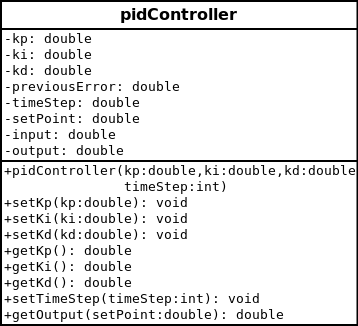
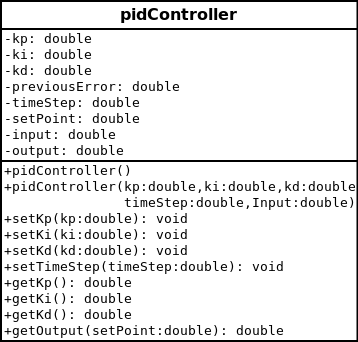
Updated UML, updated tests, updated a few other things.

Changed region(s): [[0.0, 0.0, 1.0, 1.0], [0.7067, 0.7669, 0.7989, 0.7975]]

diff --git a/app/pidController.cpp b/app/pidController.cpp
@@ -7,6 +7,7 @@
  *
  */
 
+#include <cmath>
 #include <pidController.h>
 
 namespace std {
@@ -15,44 +16,35 @@ pidController::pidController() {
   ki = 1;
   kd = 1;
   previousError = 0;
-  timeStep = 1;
-  setPoint = 1;
+  timeStep = 0.1;
+  setPoint = 0;
   input = 0;
   output = 0;
-  running = false;
 }
 
-pidController::pidController(double Kp, double Ki, double Kd, int TimeStep, double SetPoint) {
+pidController::pidController(double Kp, double Ki, double Kd, double TimeStep,
+                             double Input) {
 
   kp = Kp;
   ki = Ki;
   kd = Kd;
   previousError = 0;
   timeStep = TimeStep;
-  setPoint = SetPoint;
-  input = 0;
-  output = -1;
-  running = false;
-}
-
-void pidController::start() {
-
-}
-
-void pidController::stop() {
-
+  setPoint = 0;
+  input = Input;
+  output = 0;
 }
 
 void pidController::setKp(double Kp) {
-
+  kp = Kp;
 }
 
 void pidController::setKi(double Ki) {
-
+  ki = Ki;
 }
 
 void pidController::setKd(double Kd) {
-
+  kd = Kd;
 }
 
 double pidController::getKp() {
@@ -75,11 +67,33 @@ double pidController::getSetPoint() {
   return setPoint;
 }
 
-void setTimeStep(int TimeStep) {
-
+void pidController::setTimeStep(double TimeStep) {
+  timeStep = TimeStep;
 }
 
-double getOutput(double SetPoint) {
+double pidController::getOutput(double SetPoint) {
+  /*
+   * TODO Neel:
+   * Calculate your error (setpoint - input)
+   * Reset to 0 variables that will be maintained through the loop
+   * (previousError and integral)
+   *
+   * Start your loop, run while abs(error) > 0.0001
+   * Inside the loop:
+   *  Calculate your integral
+   *    (integral += error * timeStep
+   *  Calculate your derivative
+   *    (derivative = (error - previousError) / timeStep
+   *  Calculate your output
+   *    (kp * error + ki * integral + kd * derivative)
+   *  Update your input
+   *    (input += output)
+   *  Reset your error variables
+   *    (previousError = error, error = setpoint - input)
+   *  End loop
+   *
+   * Return output
+   */
   return 0;
 }
 

diff --git a/include/pidController.h b/include/pidController.h
@@ -20,11 +20,10 @@ class pidController {
   double ki; ///< integral parameter
   double kd; ///< derivative parameter
   double previousError; ///< error from previous cycle
-  int timeStep; ///< time step in seconds
+  double timeStep; ///< time step
   double setPoint; ///< desired point
   double input; ///< current point
   double output; ///< output to bring current to desired point
-  bool running; ///< whether or not the controller is running
  public:
 
   /**
@@ -38,23 +37,10 @@ class pidController {
    * @param Ki integral parameter
    * @param Kd derivative parameter
    * @param TimeStep time step interval
-   * @param SetPoint desired point
+   * @param input Start position
    */
-  pidController(double, double, double, int, double);
-  /**
-   * @brief starts the controller running
-   */
-  void start();
+  pidController(double, double, double, double, double);
 
-  /**
-   * @brief stops the controller running
-   */
-  void stop();
-
-  /**
-   * @brief sets the kp value for the controller
-   * @param Kp proportional parameter
-   */
   void setKp(double);
 
   /**
@@ -100,10 +86,10 @@ class pidController {
   double getSetPoint();
 
   /**
-   * @brief sets the time interval (in seconds)
-   * @param TimeStep time interval (in seconds)
+   * @brief sets the time interval
+   * @param TimeStep time interval
    */
-  void setTimeStep(int);
+  void setTimeStep(double);
 
   /**
    * @brief calculates and returns the output value to bring the

diff --git a/test/test.cpp b/test/test.cpp
@@ -24,12 +24,12 @@ TEST(pidTest, kValsInitializationTest) {
 
 TEST(pidTest, OutputErrorCheck01) {
   pidController c(0.01, 0.001, 0.01, 0.1, 0);
-  c.start();
-  EXPECT_NEAR(c.getOutput(2), 0.2202, 0.0001);
+  c.getOutput(2);
+  EXPECT_NEAR(c.getState(), 2.0, 0.0001);
 }
 
 TEST(pidTest, OutputErrorCheck02) {
   pidController c(0.01, 0.001, 0.01, 0.1, 0);
-  c.start();
-  EXPECT_NEAR(c.getOutput(10), 1.101, 0.001);
+  c.getOutput(10);
+  EXPECT_NEAR(c.getState(), 10.0, 0.0001);
 }

diff --git a/app/main.cpp b/app/main.cpp
@@ -19,10 +19,10 @@
 using namespace std;
 
 int main() {
-  pidController c(0.01, 0.001, 0.01, 0.1, 2.0);
-  c.start();
-  cout << "Current state is: " << c.getState() << endl;
-  cout << "Desired state is: " << c.getSetPoint() << endl;
+  pidController c(0.01, 0.001, 0.01, 0.1, 0.0);
+  c.getOutput(5.0);
+  cout << "State is now: " << c.getState() << endl;
+
 
   return 0;
 }
